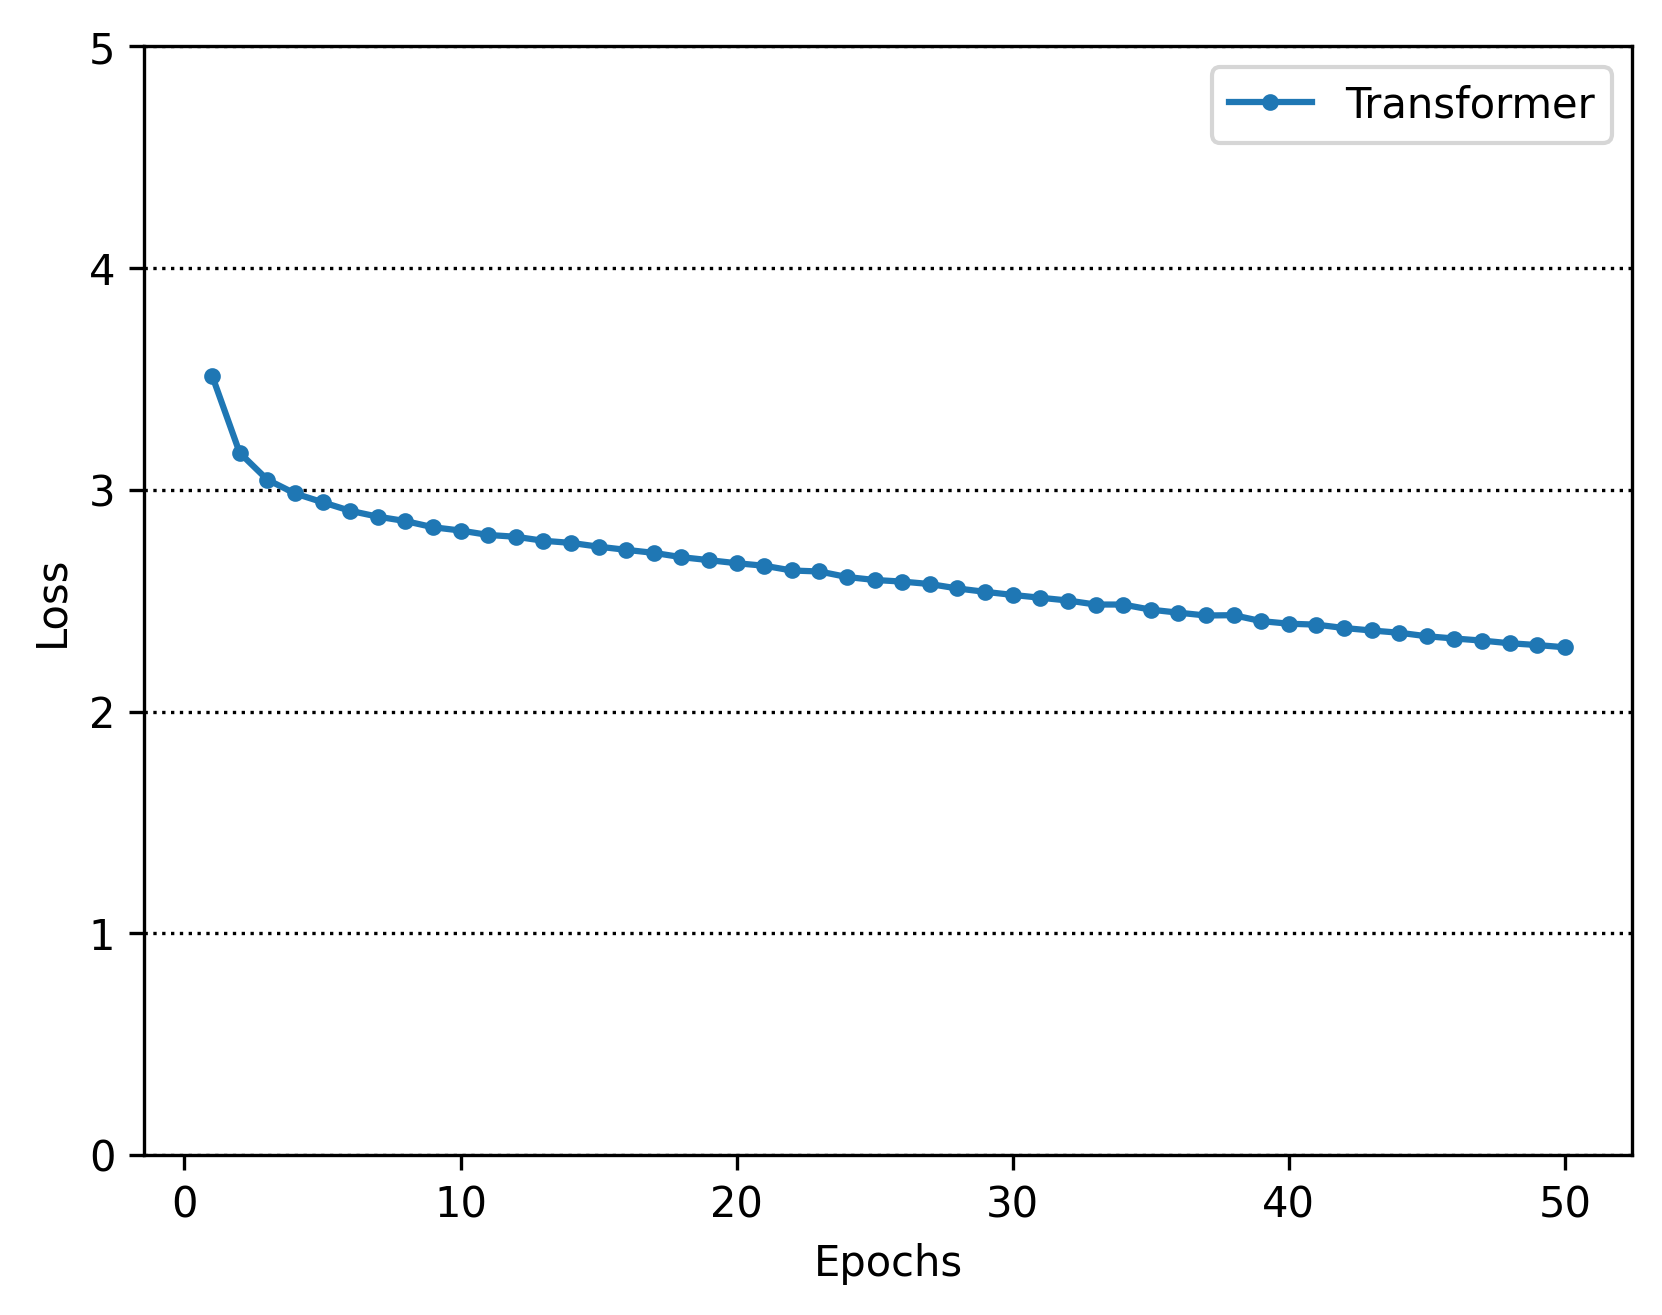
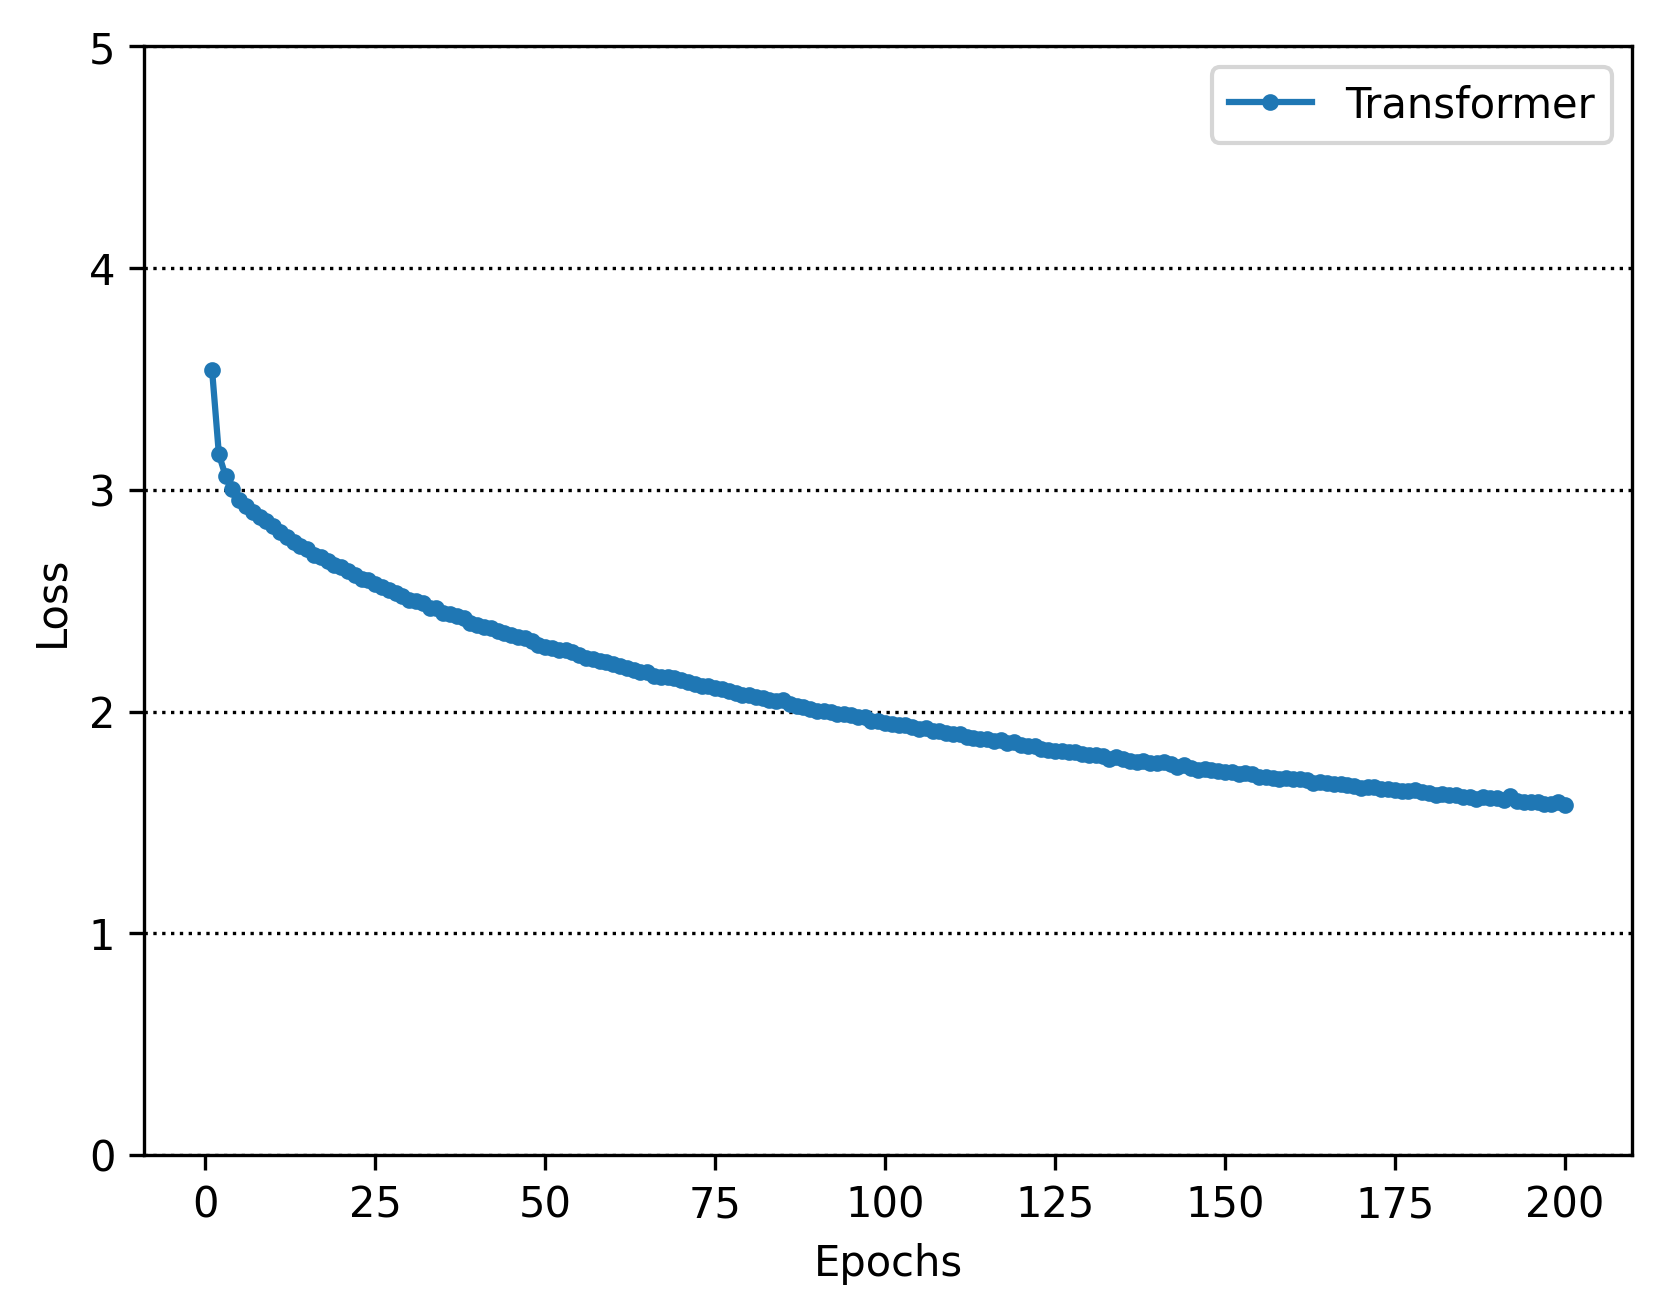
clean: リファクタリング

diff --git a/ContinuousSignLanguage/transformer/continuous_sign_language_transformer/modeling/train_functions.py b/ContinuousSignLanguage/transformer/continuous_sign_language_transformer/modeling/train_functions.py
@@ -494,36 +494,36 @@ def load_model(save_path: str, device: str = "cpu"):
 
     model_loaded = cslr_model.TransformerCSLR(
         in_channels=in_channels,
-        inter_channels=model_config.inter_channels,
+         inter_channels=model_config.inter_channels,
         out_channels=out_channels,
         padding_val=pad_token,
-        activation="relu",
-        tren_num_layers=2,
-        tren_num_heads=2,
-        tren_dim_ffw=256,
-        tren_dropout_pe=0.1,
-        tren_dropout=0.1,
+        activation=model_config.activation,
+        tren_num_layers=model_config.tren_num_layers,
+        tren_num_heads=model_config.tren_num_heads,
+        tren_dim_ffw=model_config.tren_dim_ffw,
+        tren_dropout_pe=model_config.tren_dropout_pe,
+        tren_dropout=model_config.tren_dropout,
         tren_norm_type_sattn=model_config.norm_type,
         tren_norm_type_ffw=model_config.norm_type,
         tren_norm_type_tail=model_config.norm_type,
-        tren_norm_eps=1e-5,
-        tren_norm_first=True,
-        tren_add_bias=True,
-        tren_add_tailnorm=True,
-        trde_num_layers=2,
-        trde_num_heads=2,
-        trde_dim_ffw=256,
-        trde_dropout_pe=0.1,
-        trde_dropout=0.1,
+        tren_norm_eps=model_config.tren_norm_eps,
+        tren_norm_first=model_config.tren_norm_first,
+        tren_add_bias=model_config.tren_add_bias,
+        tren_add_tailnorm=model_config.tren_add_tailnorm,
+        trde_num_layers=model_config.trde_num_layers,
+        trde_num_heads=model_config.trde_num_heads,
+        trde_dim_ffw=model_config.trde_dim_ffw,
+        trde_dropout_pe=model_config.trde_dropout_pe,
+        trde_dropout=model_config.trde_dropout,
         trde_norm_type_sattn=model_config.norm_type,
         trde_norm_type_cattn=model_config.norm_type,
         trde_norm_type_ffw=model_config.norm_type,
         trde_norm_type_tail=model_config.norm_type,
-        trde_norm_eps=1e-5,
-        trde_norm_first=True,
-        trde_add_bias=True,
-        trde_add_tailnorm=True)
-
+        trde_norm_eps=model_config.trde_norm_eps,
+        trde_norm_first=model_config.trde_norm_first,
+        trde_add_bias=model_config.trde_add_bias,
+        trde_add_tailnorm=model_config.trde_add_tailnorm)
+    
     model_loaded.load_state_dict(checkpoint['model_state_dict'])
     model_loaded.to(device)
     

diff --git a/ContinuousSignLanguage/transformer/continuous_sign_language_transformer/modeling/train.py b/ContinuousSignLanguage/transformer/continuous_sign_language_transformer/modeling/train.py
@@ -23,38 +23,38 @@ if __name__ == "__main__":
     inter_channels=model_config.inter_channels,
     out_channels=out_channels,
     padding_val=pad_token,
-    activation="relu",
-    tren_num_layers=2,
-    tren_num_heads=2,
-    tren_dim_ffw=256,
-    tren_dropout_pe=0.1,
-    tren_dropout=0.1,
+    activation=model_config.activation,
+    tren_num_layers=model_config.tren_num_layers,
+    tren_num_heads=model_config.tren_num_heads,
+    tren_dim_ffw=model_config.tren_dim_ffw,
+    tren_dropout_pe=model_config.tren_dropout_pe,
+    tren_dropout=model_config.tren_dropout,
     tren_norm_type_sattn=model_config.norm_type,
     tren_norm_type_ffw=model_config.norm_type,
     tren_norm_type_tail=model_config.norm_type,
-    tren_norm_eps=1e-5,
-    tren_norm_first=True,
-    tren_add_bias=True,
-    tren_add_tailnorm=True,
-    trde_num_layers=2,
-    trde_num_heads=2,
-    trde_dim_ffw=256,
-    trde_dropout_pe=0.1,
-    trde_dropout=0.1,
+    tren_norm_eps=model_config.tren_norm_eps,
+    tren_norm_first=model_config.tren_norm_first,
+    tren_add_bias=model_config.tren_add_bias,
+    tren_add_tailnorm=model_config.tren_add_tailnorm,
+    trde_num_layers=model_config.trde_num_layers,
+    trde_num_heads=model_config.trde_num_heads,
+    trde_dim_ffw=model_config.trde_dim_ffw,
+    trde_dropout_pe=model_config.trde_dropout_pe,
+    trde_dropout=model_config.trde_dropout,
     trde_norm_type_sattn=model_config.norm_type,
     trde_norm_type_cattn=model_config.norm_type,
     trde_norm_type_ffw=model_config.norm_type,
     trde_norm_type_tail=model_config.norm_type,
-    trde_norm_eps=1e-5,
-    trde_norm_first=True,
-    trde_add_bias=True,
-    trde_add_tailnorm=True)
+    trde_norm_eps=model_config.trde_norm_eps,
+    trde_norm_first=model_config.trde_norm_first,
+    trde_add_bias=model_config.trde_add_bias,
+    trde_add_tailnorm=model_config.trde_add_tailnorm)
 
-    label_smoothing = 0.1
-    lr = 3e-4
-    epochs = 50
-    eval_every_n_epochs = 1
-    max_seqlen = 60
+    label_smoothing = model_config.label_smoothing
+    lr = model_config.lr
+    epochs = model_config.epochs
+    eval_every_n_epochs = model_config.eval_every_n_epochs
+    max_seqlen = model_config.max_seqlen
     sos_token = key2token["<sos>"]
     eos_token = key2token["<eos>"]
     pad_token = key2token["<pad>"]

diff --git a/ContinuousSignLanguage/transformer/continuous_sign_language_transformer/modeling/config.py b/ContinuousSignLanguage/transformer/continuous_sign_language_transformer/modeling/config.py
@@ -1,6 +1,36 @@
 inter_channels = 64
+activation="relu"
+
+#detail transformer encoder
+tren_num_layers=2
+tren_num_heads=2
+tren_dim_ffw=256
+tren_dropout_pe=0.1
+tren_dropout=0.1
 norm_type = "layer"
+tren_norm_eps=1e-5
+tren_norm_first=True
+tren_add_bias=True
+tren_add_tailnorm=True
+
+#detail transformer decoder
+trde_num_layers=2
+trde_num_heads=2
+trde_dim_ffw=256
+trde_dropout_pe=0.1
+trde_dropout=0.1
+trde_norm_eps=1e-5
+trde_norm_first=True
+trde_add_bias=True
+trde_add_tailnorm=True
+
+#学習パラメータ
+label_smoothing = 0.1
+lr = 3e-4
+epochs = 50
+eval_every_n_epochs = 1
+max_seqlen = 60
+
+#モデルの保存
 model_save_dir = "transformer/models"
 model_save_path = "transformer_model.pth"
-epochs=1
-lr = 3e-4

diff --git a/ContinuousSignLanguage/transformer/continuous_sign_language_transformer/modeling/predict.py b/ContinuousSignLanguage/transformer/continuous_sign_language_transformer/modeling/predict.py
@@ -7,7 +7,7 @@ if __name__ == "__main__":
     device = "cuda" if torch.cuda.is_available() else "cpu"
     loaded_model, loaded_optimizer, loaded_epoch, loaded_val_losses, test_dataloader, key2token = functions.load_model(save_path, device)
 
-    max_seqlen = 60
+    max_seqlen = model_config.max_seqlen
 
     sos_token = key2token["<sos>"]
     eos_token = key2token["<eos>"]

diff --git a/ContinuousSignLanguage/transformer/continuous_sign_language_transformer/config.py b/ContinuousSignLanguage/transformer/continuous_sign_language_transformer/config.py
@@ -29,6 +29,6 @@ batch_size = 32
 
 #plots
 plot_save_dir = "transformer/reports/figures"
-plot_loss_save_path = "transformer_kalman_loss.png"
-plot_accuracy_save_path = "transformer_test_kalman_accuracy.png"
+plot_loss_save_path = "transformer_loss.png"
+plot_accuracy_save_path = "transformer_test_accuracy.png"
 

diff --git a/ContinuousSignLanguage/transformer/README.md b/ContinuousSignLanguage/transformer/README.md
@@ -4,21 +4,23 @@
     <img src="https://img.shields.io/badge/CCDS-Project%20template-328F97?logo=cookiecutter" />
 </a>
 
-A short description of the project.
+Transformerを用いた連続手話認識
+
+## 実行コマンド
+train.pyの場合
+以下のディレクトリで実行して下さい
+```bash
+/src/ContinuousSignLanguage
+```
+```bash
+python -m transformer.continuous_sign_language_transformer.modeling.train
+```
 
 ## Project Organization
 
 ```
 ├── LICENSE            <- Open-source license if one is chosen
-├── Makefile           <- Makefile with convenience commands like `make data` or `make train`
 ├── README.md          <- The top-level README for developers using this project.
-├── data
-│   ├── external       <- Data from third party sources.
-│   ├── interim        <- Intermediate data that has been transformed.
-│   ├── processed      <- The final, canonical data sets for modeling.
-│   └── raw            <- The original, immutable data dump.
-│
-├── docs               <- A default mkdocs project; see www.mkdocs.org for details
 │
 ├── models             <- Trained and serialized models, model predictions, or model summaries
 │
@@ -26,16 +28,11 @@ A short description of the project.
 │                         the creator's initials, and a short `-` delimited description, e.g.
 │                         `1.0-jqp-initial-data-exploration`.
 │
-├── pyproject.toml     <- Project configuration file with package metadata for 
-│                         continuous_sign_language_transformer and configuration for tools like black
-│
 ├── references         <- Data dictionaries, manuals, and all other explanatory materials.
 │
 ├── reports            <- Generated analysis as HTML, PDF, LaTeX, etc.
 │   └── figures        <- Generated graphics and figures to be used in reporting
 │
-├── requirements.txt   <- The requirements file for reproducing the analysis environment, e.g.
-│                         generated with `pip freeze > requirements.txt`
 │
 ├── setup.cfg          <- Configuration file for flake8
 │

diff --git a/README.md b/README.md
@@ -80,6 +80,8 @@ LSA64からMediaPipeで骨格座標を取得し、その後線形補間を行い
 #### Test結果
 ![](ContinuousSignLanguage/transformer/reports/figures/transformer_test_accuracy.png)
 
+WER率 70%
+
 WER（Word Error Rate、単語誤り率）は、音声認識や機械翻訳などの自然言語処理システムの性能を評価するためによく使用される指標。WERは、システムが出力した文（仮説文）と正しい文（参照文）との間で発生した単語の置換（Substitutions）、削除（Deletions）、挿入（Insertions）の総数を基に計算される。
 
 
